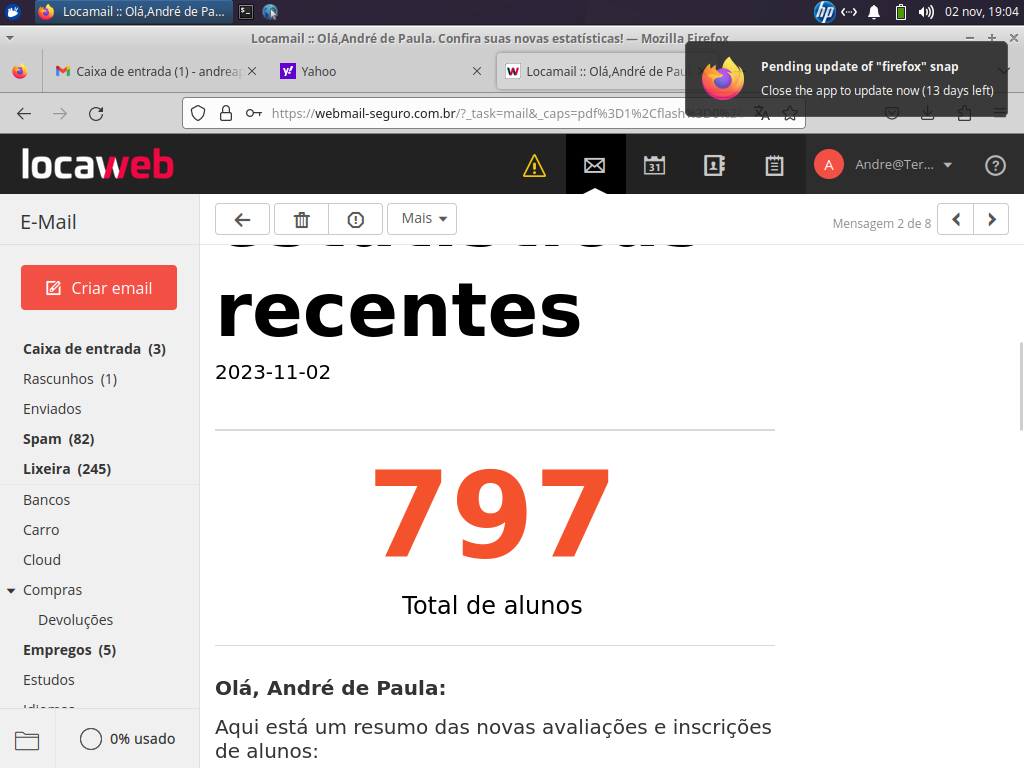
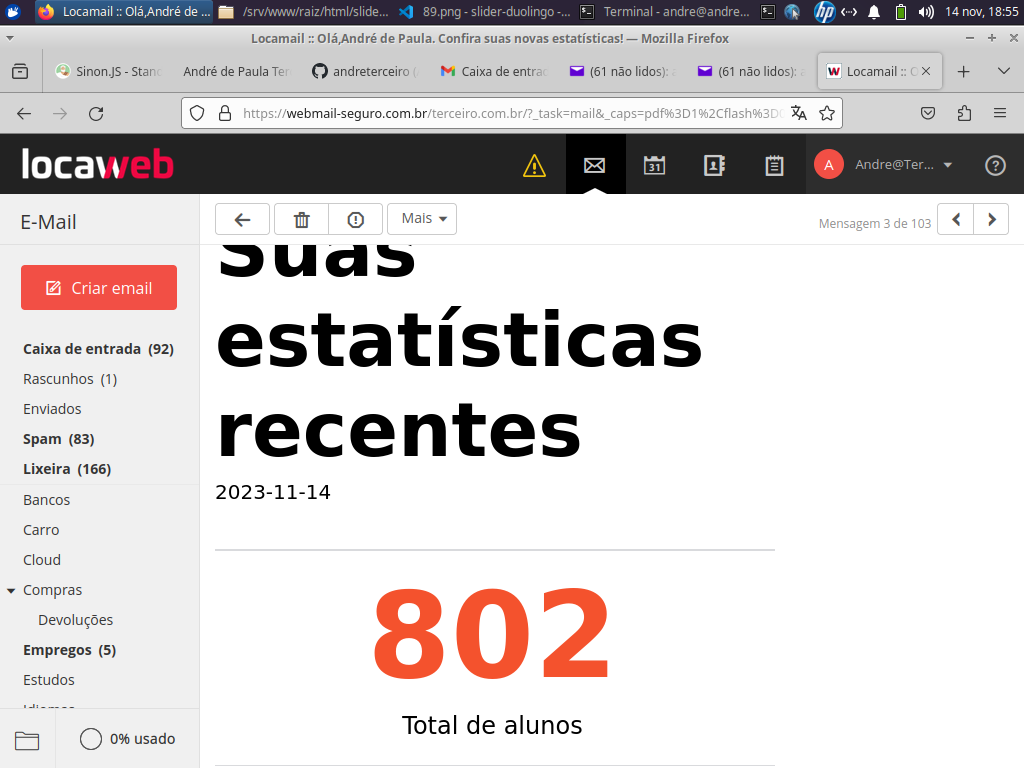
Updating the number of students in 'my' Udemy Git course

diff --git a/git.html b/git.html
@@ -6,7 +6,7 @@
         <div>
             Eu ministro um curso gratuito de Git na Udemy. O link <a href="https://www.udemy.com/course/basico-de-git/learn/lecture/30259040#overview" target="_blank">é este</a>. 
             <br /><br />
-            <a href="numero-alunos-curso-udemy.png" target="_blank" />Passei de 780 alunos lá</a><br />
+            <a href="numero-alunos-curso-udemy.png" target="_blank" />Passei de 800 alunos lá</a><br />
             <br /><br />
             No LinkedIN eu passei no teste de Git :)<br />
             <img src="aprovacao-teste-git-linkedin.jpg" />
